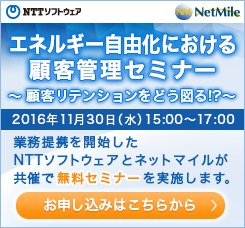
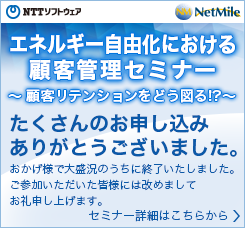
fix #4

Changed region(s): [[0.0, 0.4605, 1.0, 0.9825]]

diff --git a/index.html b/index.html
@@ -95,7 +95,7 @@
 				</dd>
 			</dl>
 			<dl>
-				<dt>2016年11月1日</dt>
+				<dt>2016年11月01日</dt>
 				<dd>
 					<ul>
 						<li><a href="/news/press_2016/press_release161101.html" target="_blank">ネットマイル、楽天Kobo・楽天SHOWTIMEで使える割引クーポンへの交換サービス開始</a></li>
@@ -126,28 +126,28 @@
 				<p class="sublink-s"><a href="/news/publicity.html"><img src="/images/top_b_publicity.gif" alt="パブリシティ一覧" width="103" height="18" /></a></p>
 			</div>
 			<div class="news">
-		        <dl>
-					<dt>2016年9月15日</dt>
+				<dl>
+					<dt>2016年12月02日</dt>
+						<dd>楽天のポイントブランド力首位　大日本印刷系など調べ （日本経済新聞）</dd>
+				</dl>
+		    <dl>
+					<dt>2016年09月15日</dt>
 					<dd>新人はベトナム有力大卒　東工大クラス、仕事に真摯な国民性<br>VBのネットマイル 採用の主軸に （日経産業新聞）</dd>
 				</dl>        
 		        <dl>
-					<dt>2016年9月1日</dt>
+					<dt>2016年09月01日</dt>
 					<dd>NTTソフトウェアとネットマイル社が業務提携 <br>（月刊ビジネスコミュニケーション 2016年9月号）</dd>
 				</dl>
 		        <dl>
-					<dt>2016年8月1日</dt>
+					<dt>2016年08月01日</dt>
 					<dd>電力乗り換えGO 猛暑の夏こそ検討したいすごい特典10<br>（エナジーアイ 2016年8月号）</dd>
 				</dl>
-		        <dl>
-					<dt>2016年7月18日</dt>
-					<dd>NTTソフト ポイント交換を連携 ネットマイル社と業務提携 （通信興業新聞）</dd>
-				</dl>		
 			</div>
 		</div>
 	</div>
 	<div id="sideBox">
 	<ul class="infomationbnr">
-		<li><a href="https://www.ntts.co.jp/event/2016/161130ma.html" target="_blank"><img src="/images/bnr_nttnm.png" alt="エネルギー自由化における顧客管理セミナー 顧客リテンションをどう図る 2016年11月30日（水）15:00～17:00　業務提携を開始したNTTソフトウェアとネットマイルが共催で無料セミナーを実施します。お申し込みはこちらから" width="245" height="228" /></a>
+		<li><a href="https://www.ntts.co.jp/event/2016/161130ma.html" target="_blank"><img src="/images/bnr_nttnm.png" alt="エネルギー自由化における顧客管理セミナー 顧客リテンションをどう図る たくさんのお申し込みありがとうございました。おかげ様で大盛況のうちに終了いたしました。ご参加いただいた皆様には改めましてお礼申し上げます。セミナー詳細はこちらから" width="245" height="228" /></a>
 		</li>
 	</ul>
 		<div class="subbnr">

diff --git a/news/publicity.html b/news/publicity.html
@@ -51,29 +51,32 @@
 <div class="NewsBox">
 	<script type="text/javascript">writeSubnavi();</script>
 	<h4>2016年のパブリシティ</h4>
-    
     <dl>
-			<dt class="new">2016年9月15日</dt>
+			<dt class="new">2016年12月02日</dt>
+				<dd>楽天のポイントブランド力首位　大日本印刷系など調べ （日本経済新聞）</dd>
+		</dl>
+    <dl>
+			<dt>2016年09月15日</dt>
 				<dd>新人はベトナム有力大卒　東工大クラス、仕事に真摯な国民性<br>VBのネットマイル 採用の主軸に （日経産業新聞）</dd>
 		</dl>
      <dl>
-			<dt>2016年9月1日</dt>
+			<dt>2016年09月01日</dt>
 				<dd>NTTソフトウェアとネットマイル社が業務提携 <br>（月刊ビジネスコミュニケーション 2016年9月号）</dd>
 		</dl>
      <dl>
-			<dt>2016年8月1日</dt>
+			<dt>2016年08月01日</dt>
 				<dd>電力乗り換えGO 猛暑の夏こそ検討したいすごい特典10<br>（エナジーアイ 2016年8月号）</dd>
 		</dl>
          <dl>
-			<dt>2016年7月18日</dt>
+			<dt>2016年07月18日</dt>
 				<dd>NTTソフト ポイント交換を連携 ネットマイル社と業務提携 （通信興業新聞）</dd>
 		</dl>
     <dl>
-			<dt>2016年7月12日</dt>
+			<dt>2016年07月12日</dt>
 				<dd>NTTソフトウェアと提携 （日本経済新聞）</dd>
 		</dl>
     <dl>
-			<dt>2016年5月24日</dt>
+			<dt>2016年05月24日</dt>
 				<dd>INMホールディングス会長・畑野仁一　ポイント交換市場を創設 （毎日新聞）</dd>
 		</dl>
     <dl>

diff --git a/news/index.html b/news/index.html
@@ -65,7 +65,7 @@
 				</dd>
 			</dl>
 			<dl>
-				<dt>2016年11月1日</dt>
+				<dt>2016年11月01日</dt>
 				<dd>
 					<ul>
 						<li><a href="/news/press_2016/press_release161101.html" target="_blank">ネットマイル、楽天Kobo・楽天SHOWTIMEで使える割引クーポンへの交換サービス開始</a></li>
